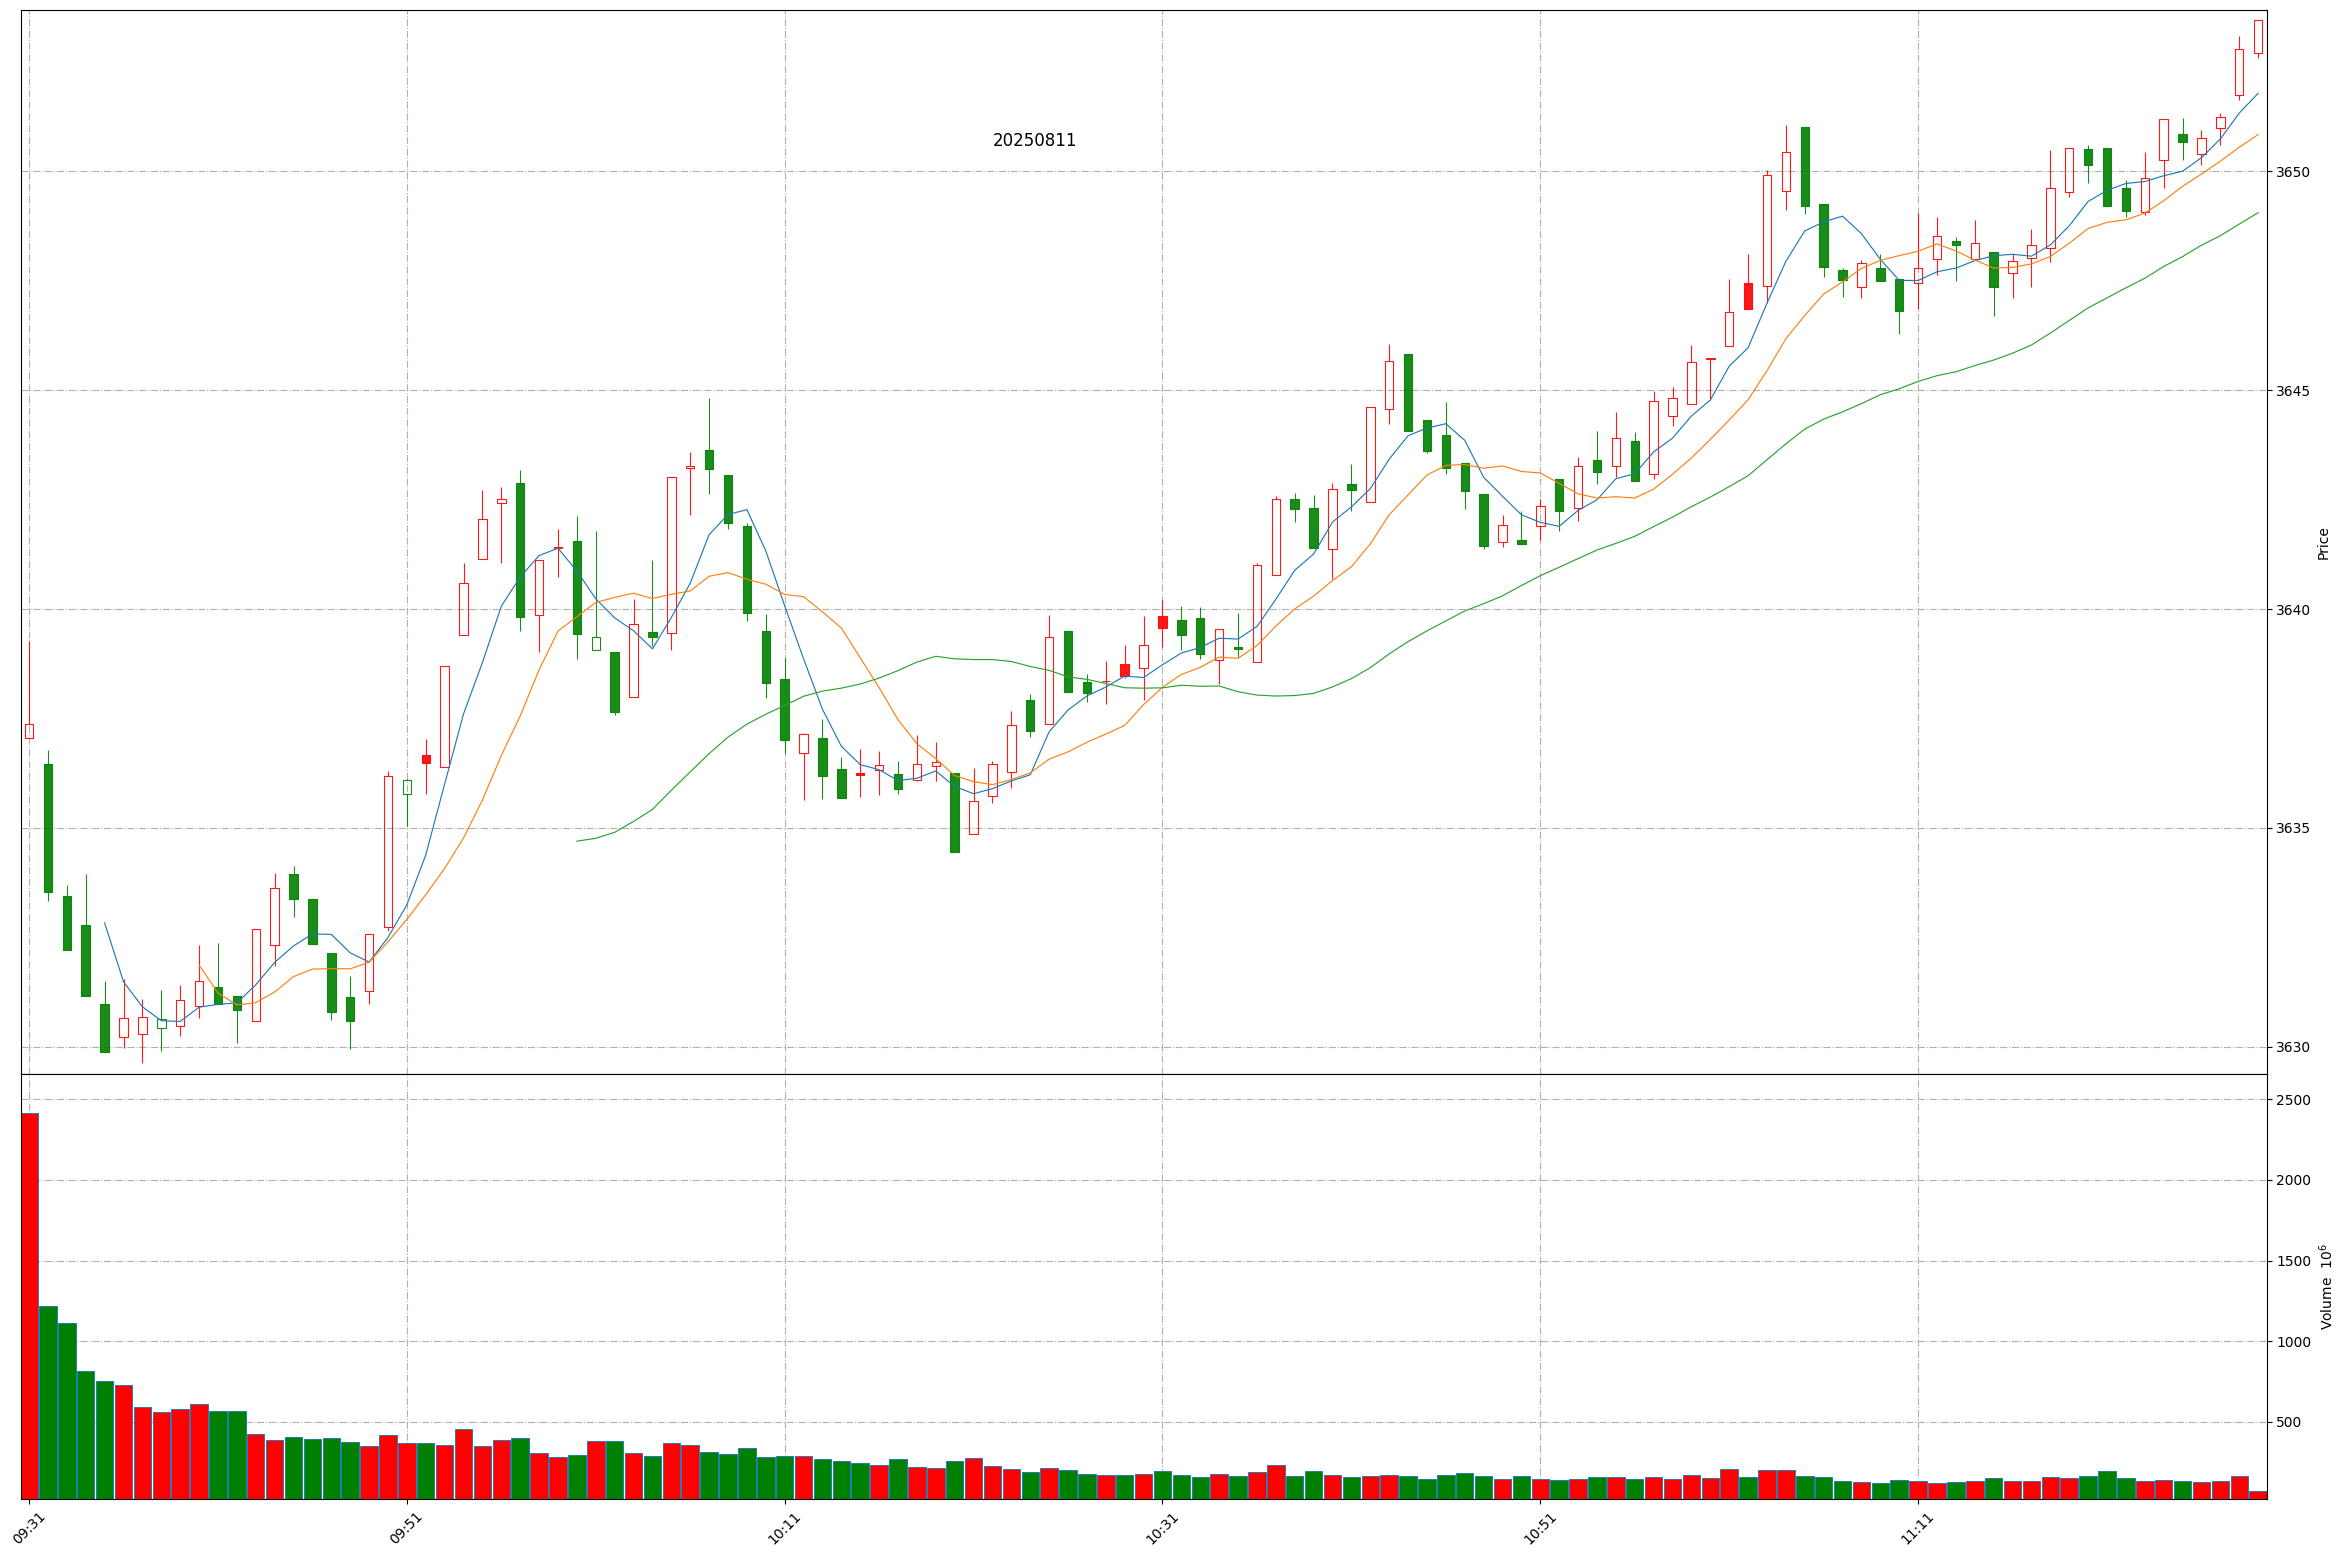
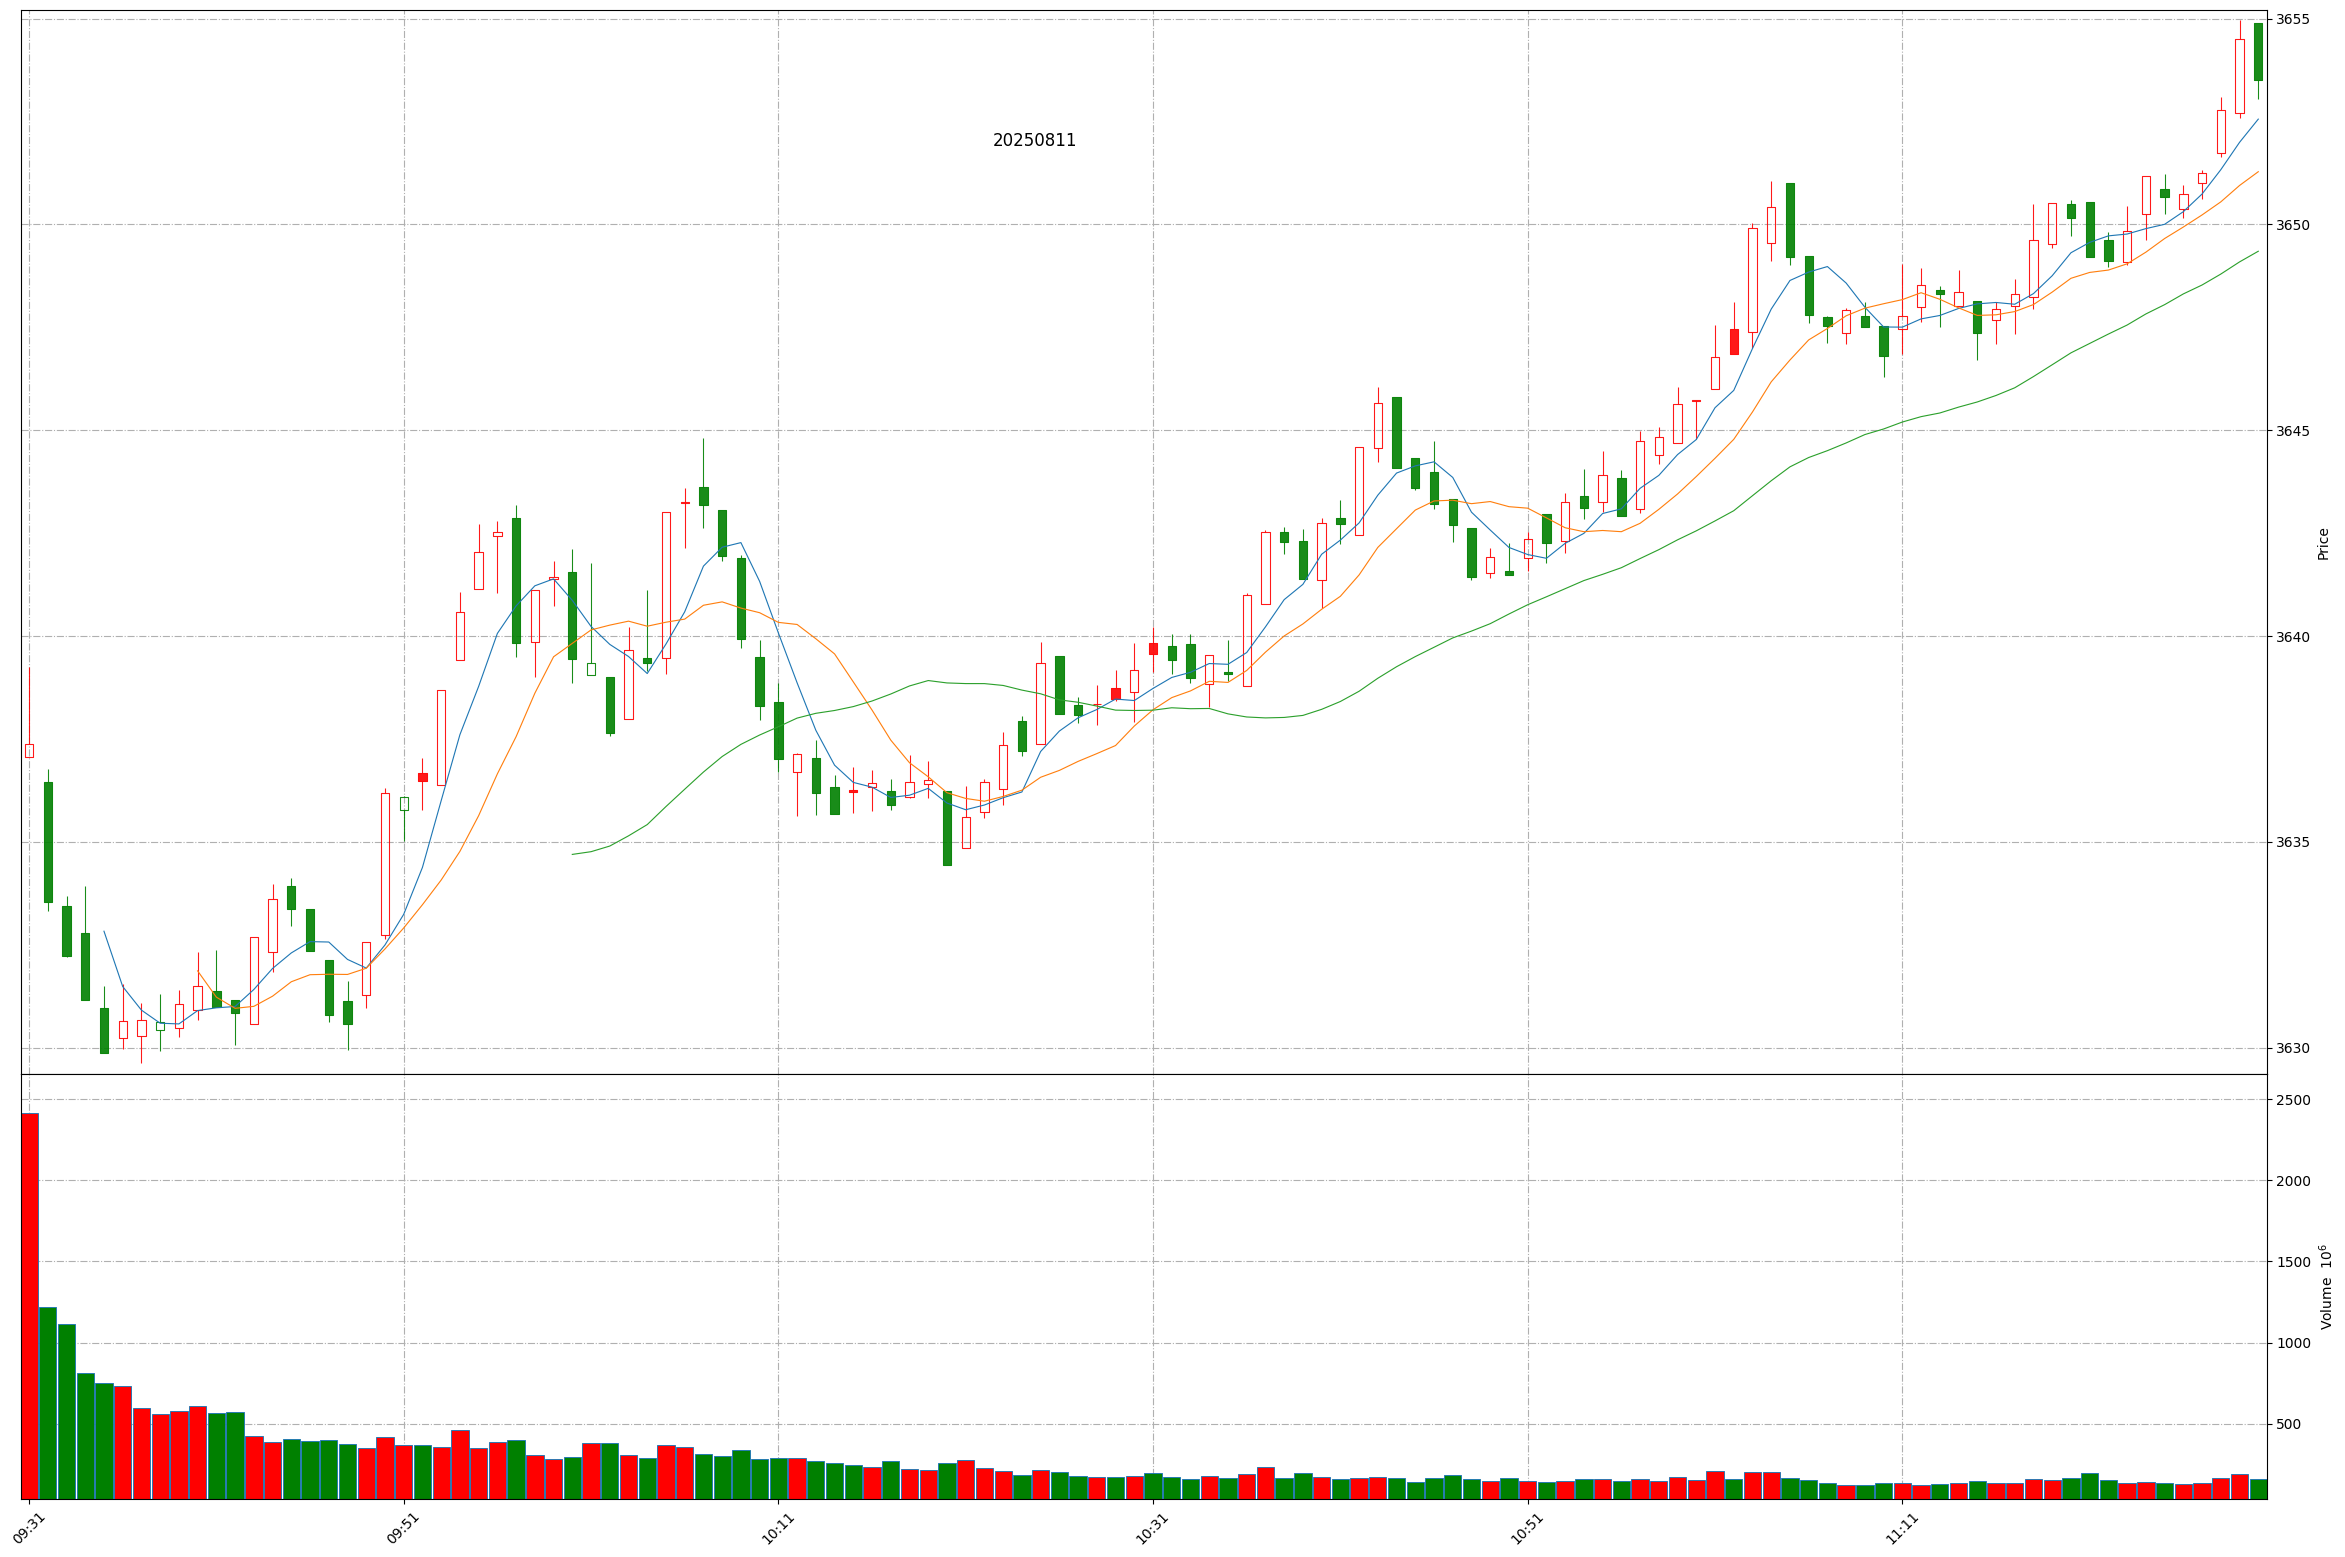
Github action update at 2025-08-11 11:42:48.

diff --git a/README.md b/README.md
@@ -1,11 +1,11 @@
 
 # Daily-A-share-market-quotes 每日 A 股指数（5min 更新）- 20250811
 
-### 上证指数 20250811 11:28
+### 上证指数 20250811 11:42
 ![](./fig/2025/8/20250811-sh000001.png)
 
-### 深证成指 20250811 11:28
+### 深证成指 20250811 11:42
 ![](./fig/2025/8/20250811-sz399001.png)
 
-### 北证50 20250811 11:28
+### 北证50 20250811 11:42
 ![](./fig/2025/8/20250811-bj899050.png)
